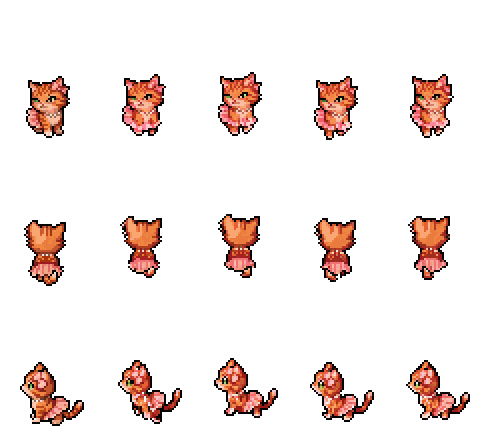
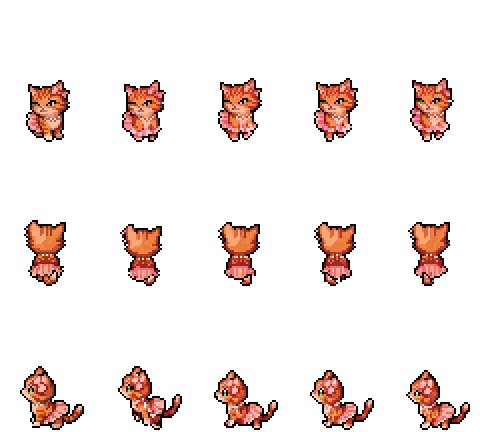
Keep walkers' feet on the ground
PixelLab's walk frames aren't anchored: the lowest foot drifted up to 8 px
from frame to frame, so $cott (worst walking north), Derek, Lil' Turnt and
the locals bobbed up off their shadows as they walked. Every frame of every
walker sheet now sits on one feet line, y 141, the same for everyone.
walker.py seats each frame on it (it used to shift the whole sheet once),
and tools/region-art/feet.py fixes an existing sheet in place.

v0.25.1.

Claude-Session: https://claude.ai/code/session_019jCMUaTHqZ2CWnnVZca1Tz

diff --git a/src/version.js b/src/version.js
@@ -3,7 +3,7 @@
 // for fixes. Since it loads with the rest of the game code, a stale version
 // on screen means the browser is still running a cached copy.
 
-export const VERSION = '0.25.0';
+export const VERSION = '0.25.1';
 export const RELEASED = '2026-10-18';
 
 const MONTHS = ['Jan', 'Feb', 'Mar', 'Apr', 'May', 'Jun', 'Jul', 'Aug', 'Sep', 'Oct', 'Nov', 'Dec'];

diff --git a/tools/region-art/walker.py b/tools/region-art/walker.py
@@ -6,9 +6,11 @@
 Downloads the character's zip (rotations plus an animation named "walk"), and
 writes `assets/field/<texture key>.png` in the layout the Region scene expects
 (CLAUDE.md §8.4): rows down, up, left; columns idle, then walk frames 1-4. Each
-48×72 art frame is drawn at ART_PX into a 96×144 cell, and the whole sheet is
-shifted by one amount so the lowest foot sits on y 141 (the template's feet
-line). A character without a walk yet gets its idle in every column.
+48×72 art frame is drawn at ART_PX into a 96×144 cell, and each frame is
+shifted so its lowest foot sits on y 141 (the template's feet line): PixelLab's
+walk frames drift up and down, and one shift for the whole sheet left the
+character bobbing off the ground as it walked. A character without a walk yet
+gets its idle in every column.
 """
 
 import io
@@ -42,19 +44,19 @@ def main(char_id, key):
         cells.append([idle] + (steps if len(steps) == 4 else [idle] * 4))
 
     # Frames sit at the bottom of the cell (a 48×48 kitten as well as a 48×72 person), so measure from there.
-    lowest = max(FRAME_H - im.height * ART_PX + im.getbbox()[3] * ART_PX for row in cells for im in row) - 1
-    dy = FEET_Y - lowest
+    feet = lambda im: FRAME_H - im.height * ART_PX + im.getbbox()[3] * ART_PX - 1
     sheet = Image.new('RGBA', (FRAME_W * 5, FRAME_H * len(ROWS)))
     for r, row in enumerate(cells):
         for c, im in enumerate(row):
             big = im.resize((im.width * ART_PX, im.height * ART_PX), Image.NEAREST)
             frame = Image.new('RGBA', (FRAME_W, FRAME_H))
             frame.alpha_composite(big, ((FRAME_W - big.width) // 2, FRAME_H - big.height))
+            dy = FEET_Y - feet(im)
             sheet.alpha_composite(frame.transform(frame.size, Image.AFFINE, (1, 0, 0, 0, 1, -dy)), (c * FRAME_W, r * FRAME_H))
     out = os.path.join(ROOT, 'assets', 'field', f'{key}.png')
     os.makedirs(os.path.dirname(out), exist_ok=True)
     sheet.save(out, optimize=True)
-    print(out, sheet.size, 'walk' if walk else 'idle only', f'shifted {dy:+d}px')
+    print(out, sheet.size, 'walk' if walk else 'idle only')
 
 
 if __name__ == '__main__':

diff --git a/tools/region-art/feet.py b/tools/region-art/feet.py
@@ -1,0 +1,49 @@
+"""Put every frame of a walker sheet's feet on one line.
+
+    python3 tools/region-art/feet.py field_scott [field_derek ...]
+
+PixelLab's walk frames aren't anchored: from frame to frame the lowest foot
+drifts up and down by several pixels, so in the game the character bobs up
+off the ground (and off its shadow) as it walks, worst walking north. This
+moves each 96×144 frame of `assets/field/<key>.png` up or down, by whole art
+pixels, so its lowest opaque pixel sits on the feet line, y 141 (the same for
+every character, so shadows sit alike under all of them). walker.py does the
+same for new sheets.
+"""
+
+import os
+import sys
+
+from PIL import Image
+
+ROOT = os.path.abspath(os.path.join(os.path.dirname(__file__), '..', '..'))
+FRAME_W, FRAME_H = 96, 144
+ART_PX = 2
+FEET_Y = 141
+
+
+def seat(sheet):
+    """Each frame re-seated on the feet line; returns (sheet, how many frames moved)."""
+    cols, rows = sheet.width // FRAME_W, sheet.height // FRAME_H
+    frame = lambda c, r: sheet.crop((c * FRAME_W, r * FRAME_H, (c + 1) * FRAME_W, (r + 1) * FRAME_H))
+    feet = FEET_Y + 1
+    out = Image.new('RGBA', sheet.size)
+    moved = 0
+    for r in range(rows):
+        for c in range(cols):
+            f = frame(c, r)
+            box = f.getbbox()
+            dy = 0
+            if box:
+                dy = (feet - box[3]) // ART_PX * ART_PX
+                moved += dy != 0
+            out.alpha_composite(f.transform(f.size, Image.AFFINE, (1, 0, 0, 0, 1, -dy)), (c * FRAME_W, r * FRAME_H))
+    return out, moved
+
+
+if __name__ == '__main__':
+    for key in sys.argv[1:]:
+        path = os.path.join(ROOT, 'assets', 'field', f'{key}.png')
+        sheet, moved = seat(Image.open(path).convert('RGBA'))
+        sheet.save(path, optimize=True)
+        print(path, f'{moved} frames moved')

diff --git a/CLAUDE.md b/CLAUDE.md
@@ -368,6 +368,7 @@ For the walkable regions (§6.6). Characters, props, and the swamp's ground tile
 - The character stands about **120–130 px tall**, feet at the bottom center of each frame, on a transparent background.
 - True pixel grid and a dark outline, like the battle sprites. Density: **2 screen px per art pixel**, so each frame is **48×72 art pixels**, drawn at 2×, and the character is about 62 art pixels tall. At 3 px (32×48 art pixels) every generator drew him chibi, under 3 heads tall; 2 px leaves room for about 4 heads. The outline is 2 px, not 3.
 - **Built: $cott and Derek** (`assets/field/field_scott.png`, `field_derek.png`), made in PixelLab from their battle art, plus the swamp locals (`field_brad.png`, `field_morgan.png`, `field_chad.png`), made from text with $cott and Derek as the style reference. Velvet Vinny and Whale Wendy (`field_vinny.png`, `field_wendy.png`, idle only) were made the same way for the Swamp Yacht Club. The recipe is in `docs/field-art-prompts.md`; `tools/region-art/walker.py` turns a PixelLab character into a sheet.
+- **Every frame's feet sit on one line** (y 141 of the 144 px cell, the same for every character). PixelLab's walk frames aren't anchored: the lowest foot drifts several pixels from frame to frame, which made $cott bob up off his shadow as he walked, worst walking north. `walker.py` seats each frame on the line; `tools/region-art/feet.py <key> …` does it to an existing sheet.
 - NPCs who only stand still need just the idle column (the down row, plus left if they turn to face $cott).
 - **Built: Lil' Turnt's follower sheet** (`field_lilturnt.png`): a kitten on all fours, about 66 px tall, in the same 96×144 frames. A front view from `create_image_pro` at 48×48 (her battle art as the identity reference, $cott's frame as the style image), rotated by `create_character` as a **quadruped** (`template: "cat"`), with PixelLab's cat `walk-4-frames`. `walker.py` sits any frame size on the feet line.
 
